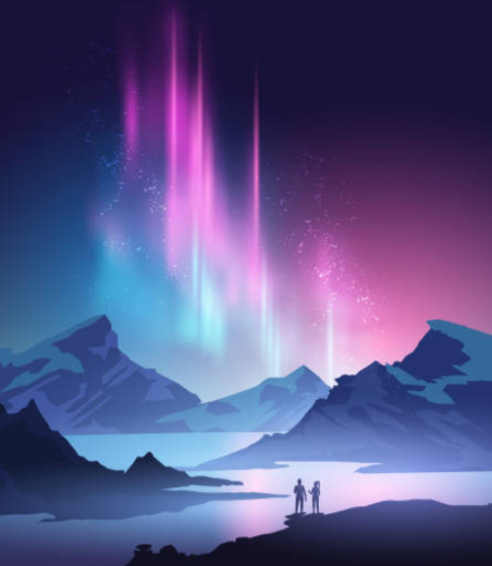
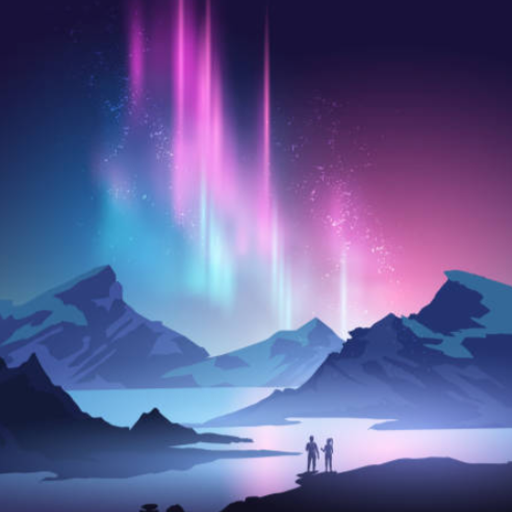
Add files via upload

diff --git a/index.html b/index.html
@@ -8,11 +8,13 @@
   <!-- PWA & Mobile App Meta Tags -->
   <link rel="manifest" href="./manifest.json" />
   <meta name="theme-color" content="#050816" />
+  <meta name="color-scheme" content="dark" />
+  <style>html,body{background:#050816;color-scheme:dark}</style>
   <meta name="mobile-web-app-capable" content="yes" />
   <meta name="apple-mobile-web-app-capable" content="yes" />
   <meta name="apple-mobile-web-app-status-bar-style" content="black-translucent" />
   <meta name="apple-mobile-web-app-title" content="Islande 2027" />
-  <link rel="apple-touch-icon" href="./icon-192.png" />
+  <link rel="apple-touch-icon" href="./apple-touch-icon.png" />
   <link rel="icon" type="image/png" sizes="192x192" href="./icon-192.png" />
 
   <!-- Typographie : Fraunces (titres expressifs) + Manrope (lecture) -->
@@ -1143,30 +1145,39 @@
     // =========================================================================
     const TARGET_DATE = new Date("2027-01-26T04:00:00Z").getTime();
 
-    function updateCountdown() {
-      const now = new Date().getTime();
-      const distance = TARGET_DATE - now;
+    const REDUCE = window.matchMedia && matchMedia("(prefers-reduced-motion: reduce)").matches;
+    const cdEls = {
+      d: document.getElementById("cd-days"),
+      h: document.getElementById("cd-hours"),
+      m: document.getElementById("cd-minutes"),
+      s: document.getElementById("cd-seconds")
+    };
 
-      if (distance <= 0) {
-        document.getElementById("cd-days").innerText = "00";
-        document.getElementById("cd-hours").innerText = "00";
-        document.getElementById("cd-minutes").innerText = "00";
-        document.getElementById("cd-seconds").innerText = "00";
-        return;
-      }
-
-      const days = Math.floor(distance / (1000 * 60 * 60 * 24));
-      const hours = Math.floor((distance % (1000 * 60 * 60 * 24)) / (1000 * 60 * 60));
-      const minutes = Math.floor((distance % (1000 * 60 * 60)) / (1000 * 60));
-      const seconds = Math.floor((distance % (1000 * 60)) / 1000);
-
-      document.getElementById("cd-days").innerText = String(days).padStart(2, '0');
-      document.getElementById("cd-hours").innerText = String(hours).padStart(2, '0');
-      document.getElementById("cd-minutes").innerText = String(minutes).padStart(2, '0');
-      document.getElementById("cd-seconds").innerText = String(seconds).padStart(2, '0');
+    // Ne modifie un chiffre que s'il a vraiment changé, avec un fondu vertical
+    function setNum(el, val) {
+      if (el.dataset.v === val) return;
+      const old = el.dataset.v;
+      el.dataset.v = val;
+      if (old === undefined || REDUCE) { el.textContent = val; return; }
+      el.innerHTML = '<span class="cd-out">' + old + '</span><span class="cd-in">' + val + '</span>';
+      clearTimeout(el._t);
+      el._t = setTimeout(() => { el.textContent = val; }, 520);
     }
 
-    setInterval(updateCountdown, 1000);
+    function updateCountdown() {
+      const distance = Math.max(0, TARGET_DATE - Date.now());
+      const days = Math.floor(distance / 86400000);
+      const hours = Math.floor((distance % 86400000) / 3600000);
+      const minutes = Math.floor((distance % 3600000) / 60000);
+      const seconds = Math.floor((distance % 60000) / 1000);
+      const p = (n) => String(n).padStart(2, "0");
+      setNum(cdEls.d, p(days));
+      setNum(cdEls.h, p(hours));
+      setNum(cdEls.m, p(minutes));
+      setNum(cdEls.s, p(seconds));
+    }
+
+    setInterval(updateCountdown, 250);
     updateCountdown();
 
     // =========================================================================

diff --git a/styles.css b/styles.css
@@ -222,8 +222,11 @@ button:active, .press:active { transform: scale(.95); }
 .cd-num { display: block; font-family: var(--font-display); font-weight: 300; font-size: clamp(40px, 12.5vw, 76px); line-height: 1; letter-spacing: -.03em;
   font-variant-numeric: tabular-nums; font-variation-settings: 'opsz' 144; color: #fff; }
 .cd-cell:nth-child(2) .cd-num, .cd-cell:nth-child(4) .cd-num { color: var(--aurora); text-shadow: 0 0 26px rgba(124,196,255,.45); }
-.cd-num.tick { animation: tick .4s var(--ease); }
-@keyframes tick { 0% { transform: translateY(-10%); opacity: .4; } 100% { transform: none; opacity: 1; } }
+.cd-num { position: relative; }
+.cd-num .cd-out { position: absolute; inset: 0; animation: cdOut .5s var(--ease) forwards; }
+.cd-num .cd-in { display: block; animation: cdIn .5s var(--ease) both; }
+@keyframes cdOut { to { transform: translateY(-45%) scale(.9); opacity: 0; filter: blur(6px); } }
+@keyframes cdIn { from { transform: translateY(45%) scale(.9); opacity: 0; filter: blur(6px); } to { transform: none; opacity: 1; filter: blur(0); } }
 .cd-unit { display: block; margin-top: 6px; font-size: 9px; font-weight: 800; letter-spacing: .24em; text-transform: uppercase; color: var(--mist-2); }
 .cd-route { position: relative; margin-top: 16px; padding-top: 14px; border-top: 1px dashed var(--line); display: flex; align-items: center; gap: 10px; font-size: 11px; color: var(--mist); }
 .cd-route b { font-family: var(--font-display); font-size: 16px; font-weight: 500; color: var(--ice); letter-spacing: .02em; }

diff --git a/fx.js b/fx.js
@@ -89,17 +89,6 @@
     $$('[data-mood]').forEach(function (el) { moodIO.observe(el); });
   }
 
-  /* ---------- Compte à rebours : petit "tic" quand un chiffre change ---------- */
-  ['cd-days', 'cd-hours', 'cd-minutes', 'cd-seconds'].forEach(function (id) {
-    var el = document.getElementById(id);
-    if (!el) return;
-    new MutationObserver(function () {
-      el.classList.remove('tick');
-      void el.offsetWidth;
-      el.classList.add('tick');
-    }).observe(el, { childList: true, characterData: true, subtree: true });
-  });
-
   /* ---------- Neige douce (canvas fixe, très léger) ---------- */
   (function snow() {
     var c = $('#snow');

diff --git a/sw.js b/sw.js
@@ -2,7 +2,7 @@
 // même sans réseau (fréquent en Islande hors des villes).
 // shortcut: cache "best effort" uniquement (pas de vraie synchro hors-ligne
 // des écritures) ; si un jour l'appli grossit beaucoup, passer par Workbox.
-const CACHE_NAME = "islande-app-v4";
+const CACHE_NAME = "islande-app-v5";
 
 const APP_SHELL = [
   "./",
@@ -11,7 +11,9 @@ const APP_SHELL = [
   "./fx.js",
   "./manifest.json",
   "./icon-192.png",
-  "./icon-512.png"
+  "./icon-512.png",
+  "./icon-maskable-512.png",
+  "./apple-touch-icon.png"
 ];
 
 self.addEventListener("install", (event) => {
